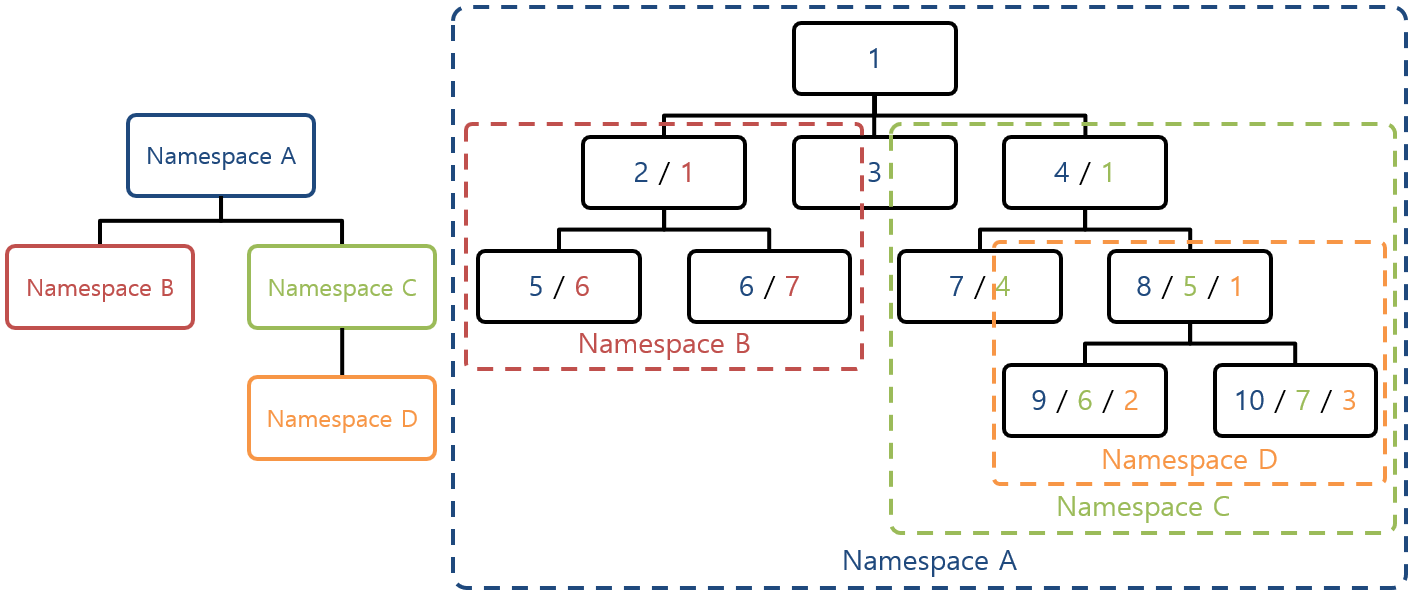
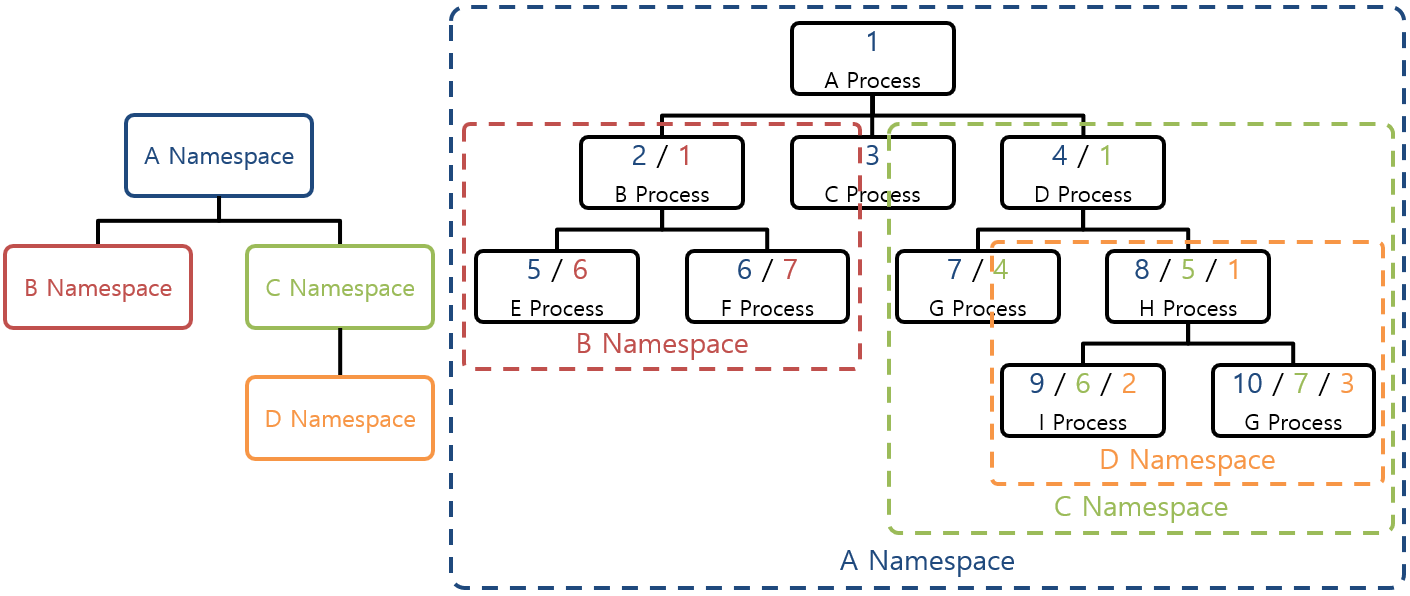
Update

diff --git a/_docs/onebyone_container/3.1.PID_Namespace.md b/_docs/onebyone_container/3.1.PID_Namespace.md
@@ -9,7 +9,7 @@ adsense: true
 
 ![[그림 1] PID Namespace]({{site.baseurl}}/images/onebyone_container/PID_Namespace/PID_Namespace.PNG)
 
-PID Namespace는 의미 그대로 PID를 Isolation하는 역활을 수행하는 Namespace이다.
+PID Namespace는 의미 그대로 PID를 Isolation하는 역활을 수행하는 Namespace이다. [그림 1]은 PID Namespace와 Process Tree의 관계를 나타내고 있다. [그림 1]에는 A,B,C,D 4개의 PID Namespace가 존재한다. PID Namespace는 Namespace중에서 유일하게 **"계층"**을 갖는 Namespace이다. 가장 높은 PID Namespace는 **"Init Namespace"**라고 호칭다. [그림 1]의 왼쪽 Tree는 PID Namespace의 계층을 나타내고 있다. A Namespace는 Init Namespace이며 자식 Namespace로 B, C Namespace를 갖고 있다. C Namespace에서는 자식으로 D Namespace를 갖고 있다. 각 Namespace에서 Process Tree의 가장 높이 위치하는 Proess는 **"Init Process"**라고 호칭한다. [그림 1]에서 A Process는 A Namespace의 Init Process이고, D Process는 C Namespace의 Init Process이다.
 
 {% highlight console %}
 (NGINX)# ps -ef
